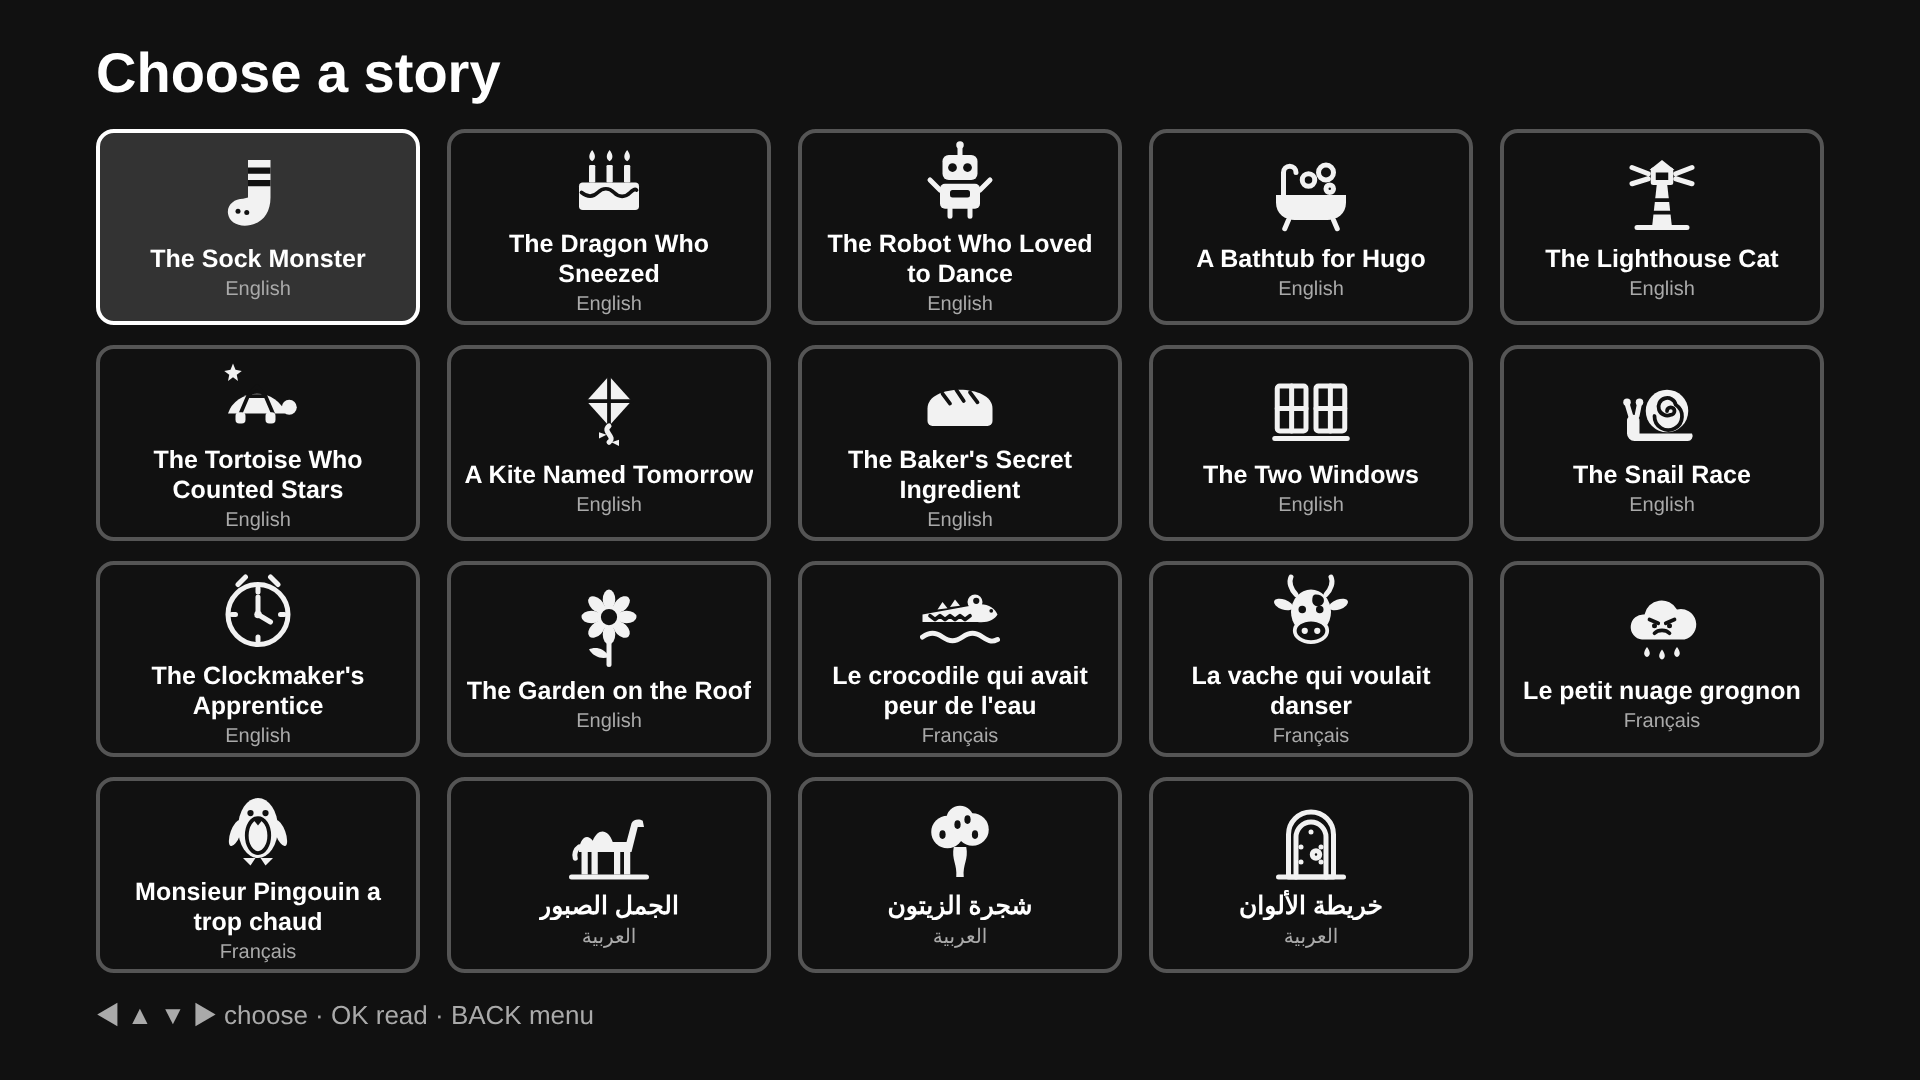
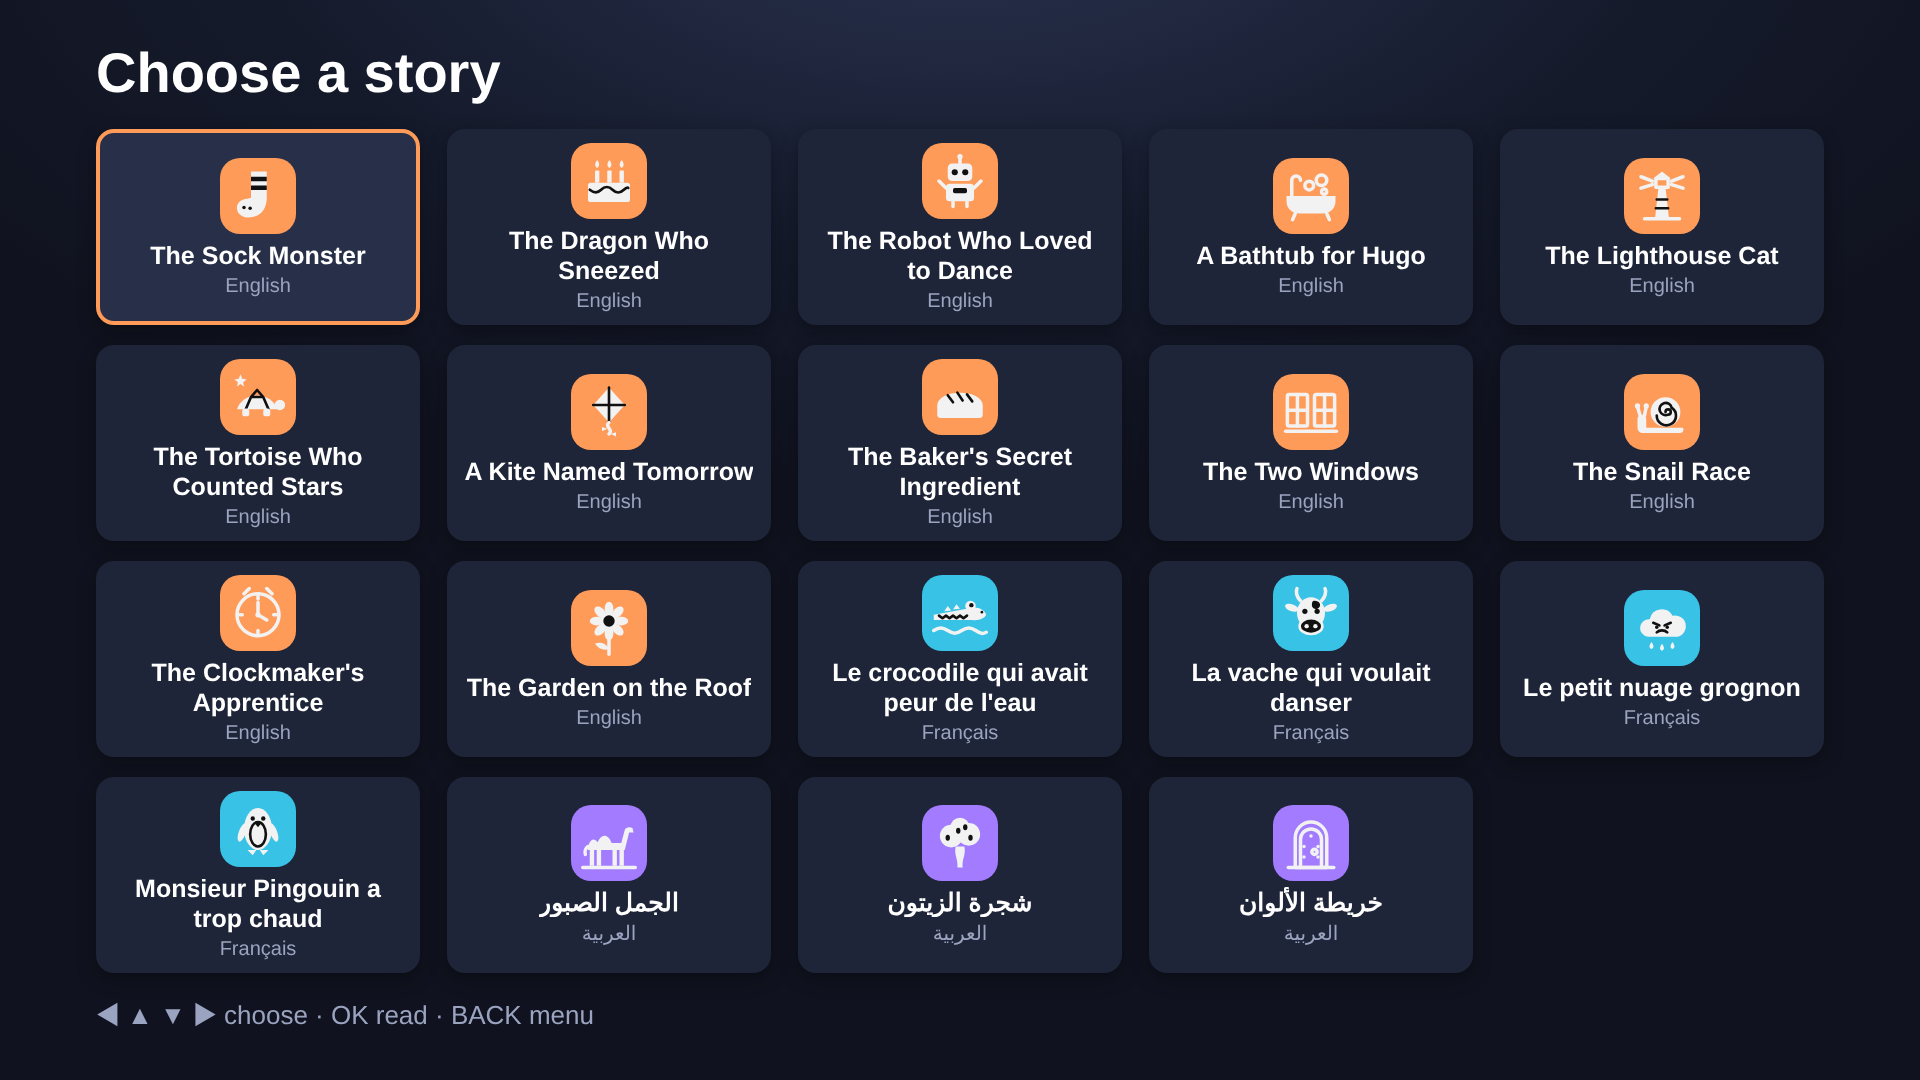
Night menu theme by default (warm tiles for bars, cool for two-eye), light option in Settings
Claude-Session: https://claude.ai/code/session_019DAwnqKTqvFo8n4B8RvvjZ

diff --git a/css/app.css b/css/app.css
@@ -206,3 +206,71 @@ h1 { font-size: 48px; margin-bottom: 32px; }
 .lib-title { font-size: 25px; font-weight: bold; line-height: 1.2; max-height: 2.4em; overflow: hidden; }
 .lib-lang { font-size: 20px; color: #aaa; margin-top: 4px; }
 #library .hint { font-size: 26px; margin-top: 6px; }
+
+/* ---------- Menu themes (Settings → Menu theme): night (default) and light ----------
+   Only the home menu and story list are themed; reading and games keep their own dark screens.
+   With bars = warm shades (red → amber); two-eye = cool shades (teal → violet).
+   Explicit colours rather than CSS variables, for older webOS browsers. */
+#menu-list li { -webkit-transition: -webkit-transform .15s; transition: transform .15s; }
+#menu-list li.focused { -webkit-transform: translateY(-6px) scale(1.02); transform: translateY(-6px) scale(1.02); }
+#menu .title { font-size: 72px; }
+#menu-list li.menu-head:before { content: ''; display: inline-block; width: 44px; height: 10px; border-radius: 5px;
+  margin-right: 14px; vertical-align: 6px; background: linear-gradient(90deg, #ef5350, #eeb02a); }
+#menu-list li.menu-head ~ li.menu-head:before { background: linear-gradient(90deg, #14b8a6, #7c55e6); }
+#menu-list li[data-i] .icon, .lib-grid .lib-icon { border-radius: 24px; padding: 14px; width: 96px; height: 96px; }
+.lib-grid .lib-icon { width: 76px; height: 76px; padding: 10px; border-radius: 20px; margin-bottom: 6px; }
+
+/* Night */
+body.theme-night #menu, body.theme-night #library {
+  background: #151a2b; background: radial-gradient(1200px 600px at 50% -10%, #2a3350 0%, #151a2b 60%, #10131f 100%); }
+body.theme-night #menu .title { color: #f2f4fb; }
+body.theme-night #menu .hint, body.theme-night #menu-list li .sub, body.theme-night #library .hint, body.theme-night .lib-lang { color: #9aa3bf; }
+body.theme-night #menu-list li.menu-head { color: #ff9b58; }
+body.theme-night #menu-list li.menu-head ~ li.menu-head { color: #7393ff; }
+body.theme-night #menu-list li[data-i], body.theme-night .lib-grid li { background: #1f2538; border-color: #1f2538; box-shadow: 0 6px 18px rgba(0,0,0,.35); }
+body.theme-night #menu-list li[data-i] .icon, body.theme-night .lib-grid .lib-icon { color: #1a1f30; }
+body.theme-night #menu-list li.focused, body.theme-night .lib-grid li.focused { background: #283049; }
+body.theme-night #menu-more { color: #f2f4fb; }
+body.theme-night #menu-more.focused { background: #283049; border-color: #f2f4fb; }
+
+/* Light */
+body.theme-light #menu, body.theme-light #library { background: #f2f4fa; color: #2b2840; }
+body.theme-light #menu .title, body.theme-light #menu-more { color: #2b2840; }
+body.theme-light #menu .hint, body.theme-light #menu-list li .sub, body.theme-light #library .hint, body.theme-light .lib-lang { color: #6b6880; }
+body.theme-light #menu-list li.menu-head { color: #e8603c; }
+body.theme-light #menu-list li.menu-head ~ li.menu-head { color: #3f7fe6; }
+body.theme-light #menu-list li[data-i], body.theme-light .lib-grid li { background: #fff; border-color: #fff; color: #2b2840; box-shadow: 0 4px 14px rgba(40,50,90,.08); }
+body.theme-light #menu-list li[data-i] .icon, body.theme-light .lib-grid .lib-icon { color: #fff; }
+body.theme-light #menu-list li.focused, body.theme-light .lib-grid li.focused { box-shadow: 0 12px 26px rgba(40,50,90,.18); }
+body.theme-light #menu-more.focused { background: #fff; border-color: #2b2840; }
+
+body.theme-night #menu-list li[data-i="0"] .icon { background: #ff7a72; } body.theme-night #menu-list li[data-i="0"].focused { border-color: #ff7a72; }
+body.theme-night #menu-list li[data-i="6"] .icon { background: #3ed6c4; } body.theme-night #menu-list li[data-i="6"].focused { border-color: #3ed6c4; }
+body.theme-light #menu-list li[data-i="0"] .icon { background: #ef5350; } body.theme-light #menu-list li[data-i="0"].focused { border-color: #ef5350; }
+body.theme-light #menu-list li[data-i="6"] .icon { background: #14b8a6; } body.theme-light #menu-list li[data-i="6"].focused { border-color: #14b8a6; }
+body.theme-night #menu-list li[data-i="1"] .icon { background: #ff8a63; } body.theme-night #menu-list li[data-i="1"].focused { border-color: #ff8a63; }
+body.theme-night #menu-list li[data-i="7"] .icon { background: #38c2e6; } body.theme-night #menu-list li[data-i="7"].focused { border-color: #38c2e6; }
+body.theme-light #menu-list li[data-i="1"] .icon { background: #f2664a; } body.theme-light #menu-list li[data-i="1"].focused { border-color: #f2664a; }
+body.theme-light #menu-list li[data-i="7"] .icon { background: #0ea5c6; } body.theme-light #menu-list li[data-i="7"].focused { border-color: #0ea5c6; }
+body.theme-night #menu-list li[data-i="2"] .icon { background: #ff9b58; } body.theme-night #menu-list li[data-i="2"].focused { border-color: #ff9b58; }
+body.theme-night #menu-list li[data-i="8"] .icon { background: #56a8ff; } body.theme-night #menu-list li[data-i="8"].focused { border-color: #56a8ff; }
+body.theme-light #menu-list li[data-i="2"] .icon { background: #f57a42; } body.theme-light #menu-list li[data-i="2"].focused { border-color: #f57a42; }
+body.theme-light #menu-list li[data-i="8"] .icon { background: #2b8fe0; } body.theme-light #menu-list li[data-i="8"].focused { border-color: #2b8fe0; }
+body.theme-night #menu-list li[data-i="3"] .icon { background: #ffad4f; } body.theme-night #menu-list li[data-i="3"].focused { border-color: #ffad4f; }
+body.theme-night #menu-list li[data-i="9"] .icon { background: #7393ff; } body.theme-night #menu-list li[data-i="9"].focused { border-color: #7393ff; }
+body.theme-light #menu-list li[data-i="3"] .icon { background: #f88e3a; } body.theme-light #menu-list li[data-i="3"].focused { border-color: #f88e3a; }
+body.theme-light #menu-list li[data-i="9"] .icon { background: #4a78ea; } body.theme-light #menu-list li[data-i="9"].focused { border-color: #4a78ea; }
+body.theme-night #menu-list li[data-i="4"] .icon { background: #ffbe48; } body.theme-night #menu-list li[data-i="4"].focused { border-color: #ffbe48; }
+body.theme-night #menu-list li[data-i="10"] .icon { background: #8a85ff; } body.theme-night #menu-list li[data-i="10"].focused { border-color: #8a85ff; }
+body.theme-light #menu-list li[data-i="4"] .icon { background: #f6a232; } body.theme-light #menu-list li[data-i="4"].focused { border-color: #f6a232; }
+body.theme-light #menu-list li[data-i="10"] .icon { background: #6366f1; } body.theme-light #menu-list li[data-i="10"].focused { border-color: #6366f1; }
+body.theme-night #menu-list li[data-i="5"] .icon { background: #ffcc4a; } body.theme-night #menu-list li[data-i="5"].focused { border-color: #ffcc4a; }
+body.theme-night #menu-list li[data-i="11"] .icon { background: #a27bff; } body.theme-night #menu-list li[data-i="11"].focused { border-color: #a27bff; }
+body.theme-light #menu-list li[data-i="5"] .icon { background: #eeb02a; } body.theme-light #menu-list li[data-i="5"].focused { border-color: #eeb02a; }
+body.theme-light #menu-list li[data-i="11"] .icon { background: #7c55e6; } body.theme-light #menu-list li[data-i="11"].focused { border-color: #7c55e6; }
+body.theme-night .lib-grid li[data-lang="en"] .lib-icon { background: #ff9b58; } body.theme-night .lib-grid li[data-lang="en"].focused { border-color: #ff9b58; }
+body.theme-night .lib-grid li[data-lang="fr"] .lib-icon { background: #38c2e6; } body.theme-night .lib-grid li[data-lang="fr"].focused { border-color: #38c2e6; }
+body.theme-night .lib-grid li[data-lang="ar"] .lib-icon { background: #a27bff; } body.theme-night .lib-grid li[data-lang="ar"].focused { border-color: #a27bff; }
+body.theme-light .lib-grid li[data-lang="en"] .lib-icon { background: #f57a42; } body.theme-light .lib-grid li[data-lang="en"].focused { border-color: #f57a42; }
+body.theme-light .lib-grid li[data-lang="fr"] .lib-icon { background: #0ea5c6; } body.theme-light .lib-grid li[data-lang="fr"].focused { border-color: #0ea5c6; }
+body.theme-light .lib-grid li[data-lang="ar"] .lib-icon { background: #7c55e6; } body.theme-light .lib-grid li[data-lang="ar"].focused { border-color: #7c55e6; }

diff --git a/js/settings.js b/js/settings.js
@@ -16,6 +16,7 @@ var Settings = (function () {
     weakLens: 'red',           // which lens covers the weaker eye: 'red' or 'other' (green / blue)
     strongContrast: 1.0,       // brightness of what only the stronger eye sees, in two-eye games
     fontSize: 44,
+    menuTheme: 'night',        // home menu and story list: 'night' (default) or 'light'
     music: 'on',
     sfx: 'on',
     seenDisclaimer: false
@@ -35,6 +36,7 @@ var Settings = (function () {
     weakLens: ['red', 'other'],
     strongContrast: [1.0, 0.9, 0.8, 0.7, 0.6, 0.5, 0.4, 0.3, 0.2],
     fontSize: [32, 38, 44, 52, 60, 72],
+    menuTheme: ['night', 'light'],
     music: ['on', 'off'],
     sfx: ['on', 'off']
   };
@@ -51,6 +53,7 @@ var Settings = (function () {
     weakLens: 'Weaker eye',
     strongContrast: 'Strong-eye contrast',
     fontSize: 'Text size',
+    menuTheme: 'Menu theme',
     music: 'Music',
     sfx: 'Sound effects'
   };
@@ -59,7 +62,7 @@ var Settings = (function () {
   function keys(s) {
     return ['glasses', 'orientation', 'barSize', 'opacity', 'redColor',
       s.glasses === 'red-blue' ? 'blueColor' : 'greenColor', 'calibrate',
-      'weakLens', 'strongContrast', 'fontSize', 'music', 'sfx'];
+      'weakLens', 'strongContrast', 'fontSize', 'menuTheme', 'music', 'sfx'];
   }
 
   // The colour paired with red for the chosen glasses

diff --git a/js/library.js b/js/library.js
@@ -12,7 +12,7 @@ var Library = (function () {
     var html = '<h1>' + heading + '</h1><ul class="lib-grid">';
     STORIES.forEach(function (st, i) {
       var lang = st.lang || 'en';
-      html += '<li data-i="' + i + '" class="' + (i === focus ? 'focused' : '') + '">' +
+      html += '<li data-i="' + i + '" data-lang="' + lang + '" class="' + (i === focus ? 'focused' : '') + '">' +
         '<span class="lib-icon">' + (STORY_ART[st.icon] || '') + '</span>' +
         '<span class="lib-title" dir="' + (lang === 'ar' ? 'rtl' : 'ltr') + '">' + st.title + '</span>' +
         '<span class="lib-lang">' + LANG[lang] + '</span></li>';

diff --git a/js/app.js b/js/app.js
@@ -119,6 +119,7 @@
   }
 
   function apply() {
+    document.body.className = s.menuTheme === 'light' ? 'theme-light' : 'theme-night';
     Bars.render(barsEl, s);
     Engine.setColors(Settings.eyeColors(s));
     Sound.configure({ music: s.music === 'on', sfx: s.sfx === 'on' });

diff --git a/docs/UX_SCENARIO.md b/docs/UX_SCENARIO.md
@@ -45,7 +45,8 @@ Copy these steps into the UX scenario template downloaded from LG Seller Lounge.
 3. Scrolling, changing story, Settings and BACK work as in Reading. RED and GREEN do nothing here (there are no bars).
 
 ## 4. Settings panel (the ⋮ button on the home menu, or BLUE from anywhere)
-1. Press **▲ / ▼** to choose a setting: Glasses, Orientation, Bar width, Bar strength, Red colour, Green colour (or Blue colour), Colour test, Weaker eye, Strong-eye contrast, Text size, Music, Sound effects.
+1. Press **▲ / ▼** to choose a setting: Glasses, Orientation, Bar width, Bar strength, Red colour, Green colour (or Blue colour), Colour test, Weaker eye, Strong-eye contrast, Text size, Menu theme, Music, Sound effects.
+   - **Menu theme** switches the home menu and story list between **night** (default: dark blue, with warm-coloured tiles for the games with bars and cool-coloured tiles for the two-eye games) and **light** (the same colours on white cards).
    - **Glasses** switches between red / green and red / blue. With red / blue, the bars become red and blue and the Green shade row is replaced by Blue shade.
    - Each colour row shows a swatch and its value; **◀ / ▶** steps through preset colours. The defaults are red #9B1819 and green #1A9B1C at 100% bar strength.
    - **Colour test** (press **OK**) opens the colour test and picker described in section 4a.

diff --git a/README.md b/README.md
@@ -29,6 +29,8 @@ each eye sees only part of each object, encouraging both eyes to work together.
 
 The home menu is a 3 × 4 grid under a centered title, in two groups of six: **Reading and games with bars** (Reading + five games) and **Two-eye reading and games · no bars** (Two-eye Reading + five games). Settings opens from the **⋮** button at the top right (▲ from the top row, or BLUE).
 
+**Settings → Menu theme** switches the menu between night (default) and light. Games with bars use warm tile colours, two-eye games cool ones.
+
 **Two-eye Reading** shows the same stories without bars; the words take turns between the weaker eye's colour and the stronger eye's colour, so each eye sees every other word.
 
 Two-eye games switch the bars off and draw each part in one eye's colour instead, using the
